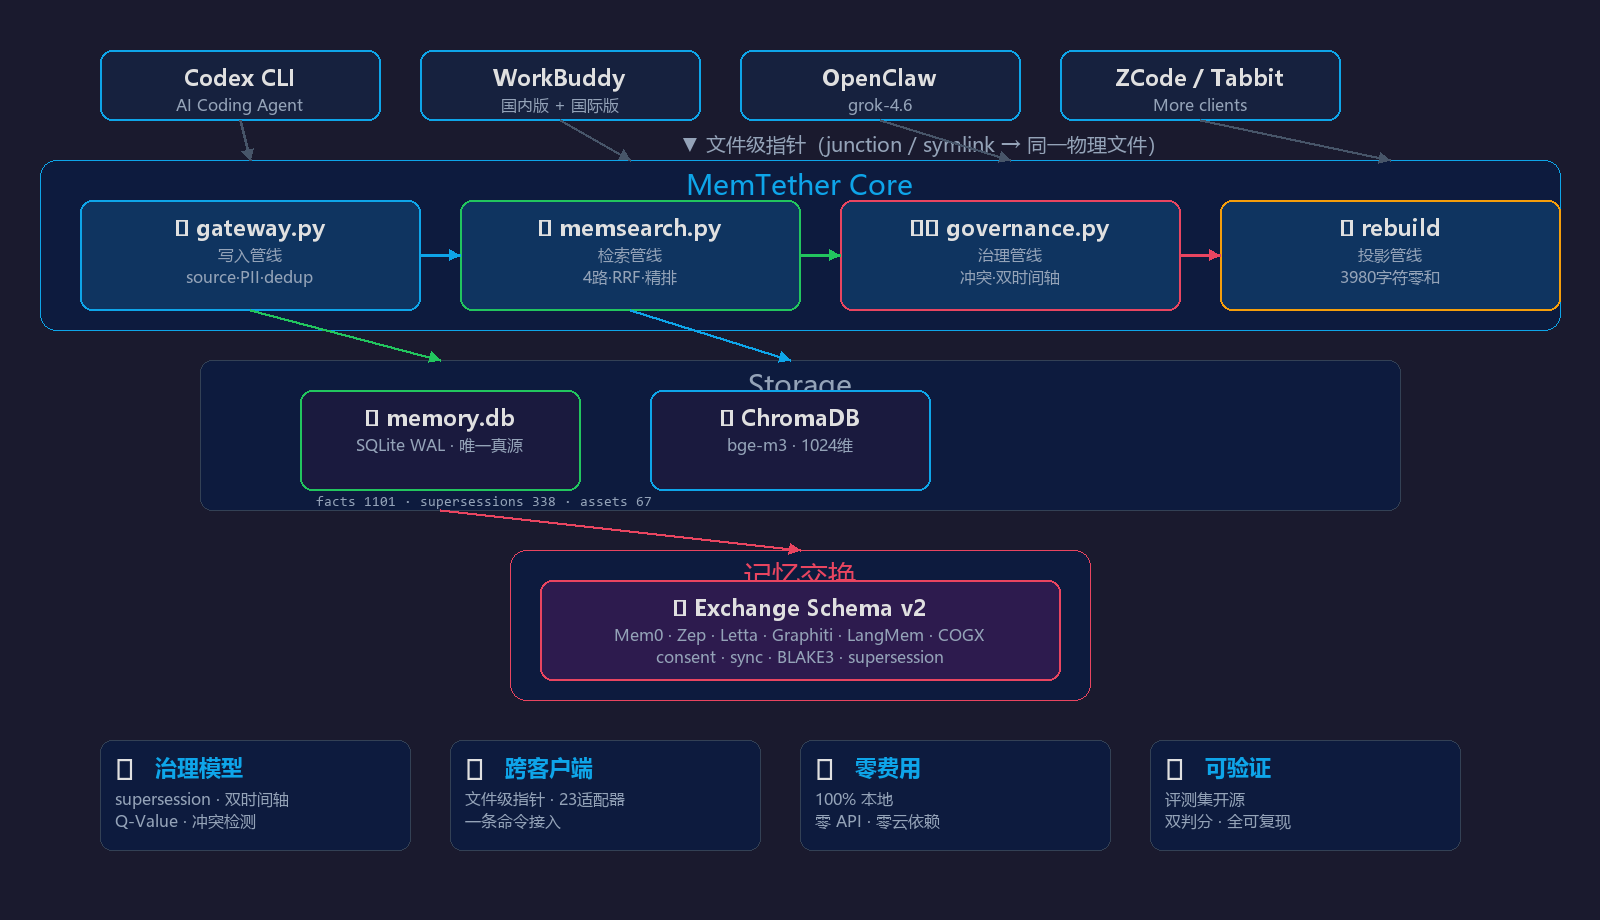
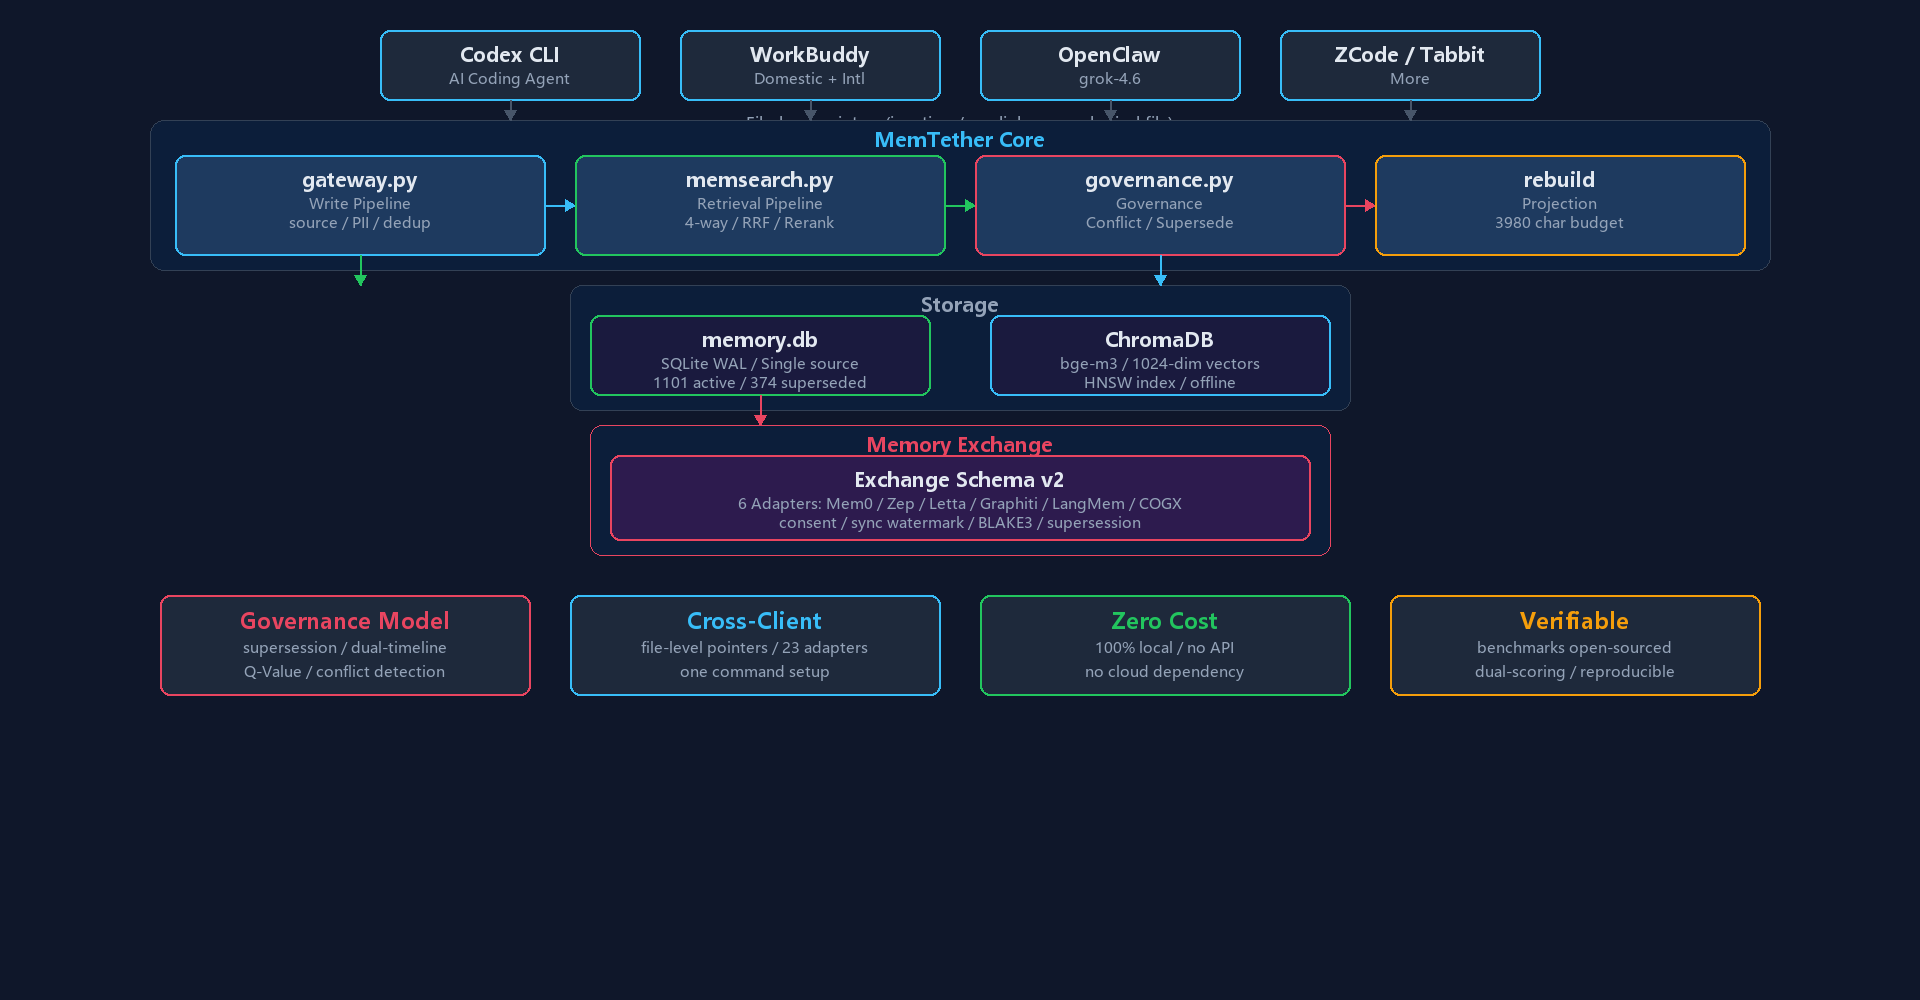
docs(README): professional architecture diagram (text-clipping fixed) + remove redundant text chain
- architecture.png: 1920x1000, all-English labels, no emoji rendering issues
- Removed text-based chain diagram (redundant with visual diagram)
- Larger boxes prevent text clipping

diff --git a/README.md b/README.md
@@ -88,33 +88,7 @@ MemTether 的答案更简单：**让它们指向同一份文件**。
   <img src="assets/architecture.png" alt="MemTether Architecture" width="100%" />
 </p>
 
-**四条核心链路：**
-
-
-```
-多个 AI 客户端（各厂商、各版本、各账号）
-        │  文件级指针（symlink / junction，指向同一份物理文件）
-        ▼
-┌──────────────────────────────────────────────┐
-│ memory.db（SQLite）  ← 唯一真源               │
-│   facts       事实/经验/决策/事故（含双时间轴） │
-│   tool_assets 工具资产（路径 + 可执行校验）     │
-│   supersessions / conflict_reviews  治理留痕   │
-└──────────────────────────────────────────────┘
-        │  gateway.py（唯一写入入口，带归属 source）
-        ▼
-   检索（向量 + 关键词 + 字面，RRF 融合 + 精排）
-        │
-   投影（注入各客户端，可钉住） / 评分卡 / 时序查询 as_of·timeline / 被采纳价值分 Q-Value
-```
-
-**关键约定**：所有写入只经 `gateway.py`，且必须带 `--source <来源名>`。
-同一份物理文件被多个 agent 写，没有归属就是灾难。
-
-> **想深入**：分层图、组件选型、9 条硬规则、事件驱动闭环、混合检索四路融合的完整说明
-> 见 **[ARCHITECTURE.md](ARCHITECTURE.md)**。
-
-### 技能层：记忆中枢的第 5 层
+**### 技能层：记忆中枢的第 5 层
 
 **技能是记忆中枢的一类资产，不是另一个项目。**
 
